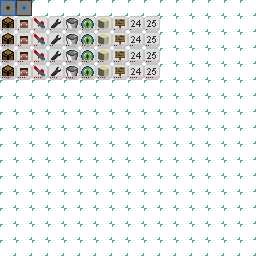
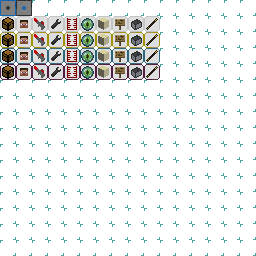
re-added some recipes. not happy with the way this is done at the moment. havent done tier upgrade recipes yet.

Changed region(s): [[0.0, 0.0625, 0.625, 0.3125]]

diff --git a/src/openccsensors/common/items/ItemSensorCard.java b/src/openccsensors/common/items/ItemSensorCard.java
@@ -4,6 +4,7 @@ import java.util.HashMap;
 import java.util.List;
 import java.util.Map.Entry;
 
+import net.minecraft.block.Block;
 import net.minecraft.creativetab.CreativeTabs;
 import net.minecraft.entity.player.EntityPlayer;
 import net.minecraft.item.EnumRarity;
@@ -12,6 +13,7 @@ import net.minecraft.item.ItemStack;
 import openccsensors.OpenCCSensors.Items;
 import openccsensors.common.api.SensorCardInterface;
 import openccsensors.common.api.SensorUpgradeTier;
+import openccsensors.common.helper.RecipeHelper;
 import openccsensors.common.sensors.BuildCraftSensor;
 import openccsensors.common.sensors.DevSensor;
 import openccsensors.common.sensors.DroppedItemSensor;
@@ -42,6 +44,7 @@ public class ItemSensorCard extends Item {
 		registerInterface(new SensorCardInterface(33, "openccsensors.item.proximitysensor", SensorUpgradeTier.TIER2, ProximitySensor.class));
 		registerInterface(new SensorCardInterface(49, "openccsensors.item.proximitysensor", SensorUpgradeTier.TIER3, ProximitySensor.class));
 		registerInterface(new SensorCardInterface(65, "openccsensors.item.proximitysensor", SensorUpgradeTier.TIER4, ProximitySensor.class));
+		
 		
 		registerInterface(new SensorCardInterface(22, "openccsensors.item.droppeditemsensor", SensorUpgradeTier.TIER1, DroppedItemSensor.class));
 		registerInterface(new SensorCardInterface(38, "openccsensors.item.droppeditemsensor", SensorUpgradeTier.TIER2, DroppedItemSensor.class));
@@ -86,7 +89,7 @@ public class ItemSensorCard extends Item {
 		registerInterface(new SensorCardInterface(40, "openccsensors.item.thaumcraftsensor", SensorUpgradeTier.TIER2, ThaumCraftSensor.class));
 		registerInterface(new SensorCardInterface(56, "openccsensors.item.thaumcraftsensor", SensorUpgradeTier.TIER3, ThaumCraftSensor.class));
 		registerInterface(new SensorCardInterface(72, "openccsensors.item.thaumcraftsensor", SensorUpgradeTier.TIER4, ThaumCraftSensor.class));
-
+		
 	}
 
 	@Override

diff --git a/src/openccsensors/common/CommonProxy.java b/src/openccsensors/common/CommonProxy.java
@@ -33,6 +33,7 @@ import openccsensors.common.blocks.BlockSensor;
 import openccsensors.common.blocks.tileentity.TileEntityGauge;
 import openccsensors.common.blocks.tileentity.TileEntitySensor;
 import openccsensors.common.core.OCSLog;
+import openccsensors.common.helper.RecipeHelper;
 import openccsensors.common.items.ItemMetaData;
 import openccsensors.common.items.ItemSensorCard;
 import openccsensors.common.items.ItemGeneric;
@@ -245,6 +246,17 @@ public class CommonProxy {
 		// register upgrade
 		Items.genericItem = new ItemGeneric(Config.genericItemID);
 		Items.sensorCard = new ItemSensorCard(Config.sensorCardID);
+		
+		RecipeHelper.addCardRecipe(23, new ItemStack(Item.diamond));
+		RecipeHelper.addCardRecipe(18, new ItemStack(Item.flint));
+		RecipeHelper.addCardRecipe(19, new ItemStack(Item.coal));
+		RecipeHelper.addCardRecipe(21, new ItemStack(Item.enderPearl));
+		RecipeHelper.addCardRecipe(25, new ItemStack(Item.minecartEmpty));
+		RecipeHelper.addCardRecipe(20, new ItemStack(Item.bucketEmpty));
+		RecipeHelper.addCardRecipe(23, new ItemStack(Item.sign));
+		RecipeHelper.addCardRecipe(22, "plankWood");
+		RecipeHelper.addCardRecipe(22, new ItemStack(Item.slimeBall));
+		RecipeHelper.addCardRecipe(17, new ItemStack(Block.pressurePlateStone));
 		
 		// register GUI handler
 		NetworkRegistry.instance().registerGuiHandler(OpenCCSensors.instance, new GuiHandler());

diff --git a/src/openccsensors/common/helper/RecipeHelper.java b/src/openccsensors/common/helper/RecipeHelper.java
@@ -1,0 +1,28 @@
+package openccsensors.common.helper;
+
+import openccsensors.OpenCCSensors;
+import net.minecraft.item.Item;
+import net.minecraft.item.ItemStack;
+import net.minecraft.item.crafting.CraftingManager;
+import net.minecraftforge.oredict.ShapedOreRecipe;
+import cpw.mods.fml.common.registry.GameRegistry;
+
+public class RecipeHelper {
+	public void init() {
+	}
+	
+	public static void addCardRecipe(int id, Object uniqueItem) {
+		
+		CraftingManager.getInstance().getRecipeList().add(new ShapedOreRecipe(
+				new ItemStack(OpenCCSensors.Items.sensorCard, 1, id),
+				new Object[] {
+					"rpr",
+					"rrr",
+					"aaa",
+					Character.valueOf('r'), new ItemStack(Item.redstone),
+					Character.valueOf('a'), new ItemStack(Item.paper),
+					Character.valueOf('p'), uniqueItem				
+				}
+			));
+	}
+}
